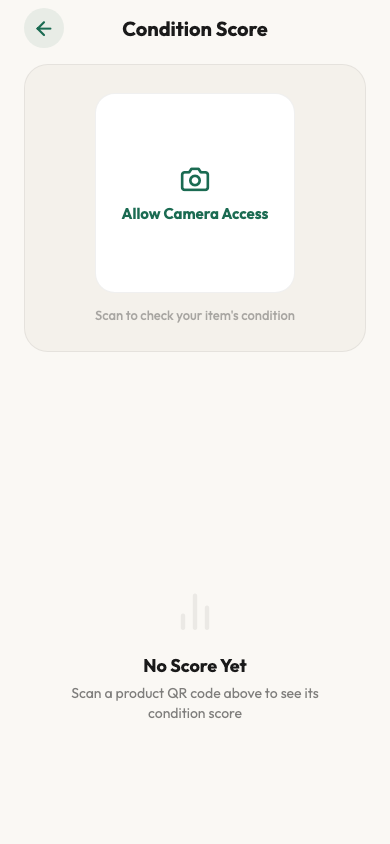
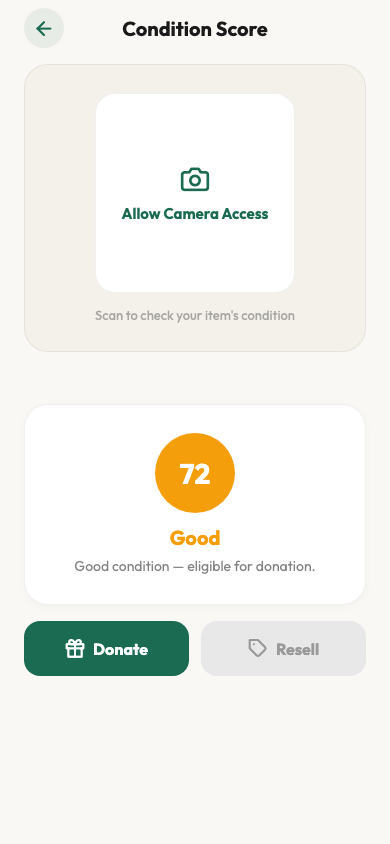
Show demo condition score (72/Good) instead of empty state

Changed region(s): [[0.0615, 0.7085, 0.8308, 0.8626], [0.4, 0.4929, 0.8, 0.6777], [0.1846, 0.6469, 0.4308, 0.6777]]

diff --git a/app/ConditionScore.tsx b/app/ConditionScore.tsx
@@ -54,7 +54,7 @@ export default function ConditionScore() {
   const [permission, requestPermission] = useCameraPermissions();
   const [showCamera, setShowCamera] = React.useState(false);
   const [loading, setLoading] = React.useState(false);
-  const [conditionScore, setConditionScore] = React.useState<number | null>(null);
+  const [conditionScore, setConditionScore] = React.useState<number | null>(72); // demo score so the result card shows without a scan
   const isPermissionGranted = Boolean(permission?.granted);
 
   const isEligibleForDonation = conditionScore !== null && conditionScore >= 50;